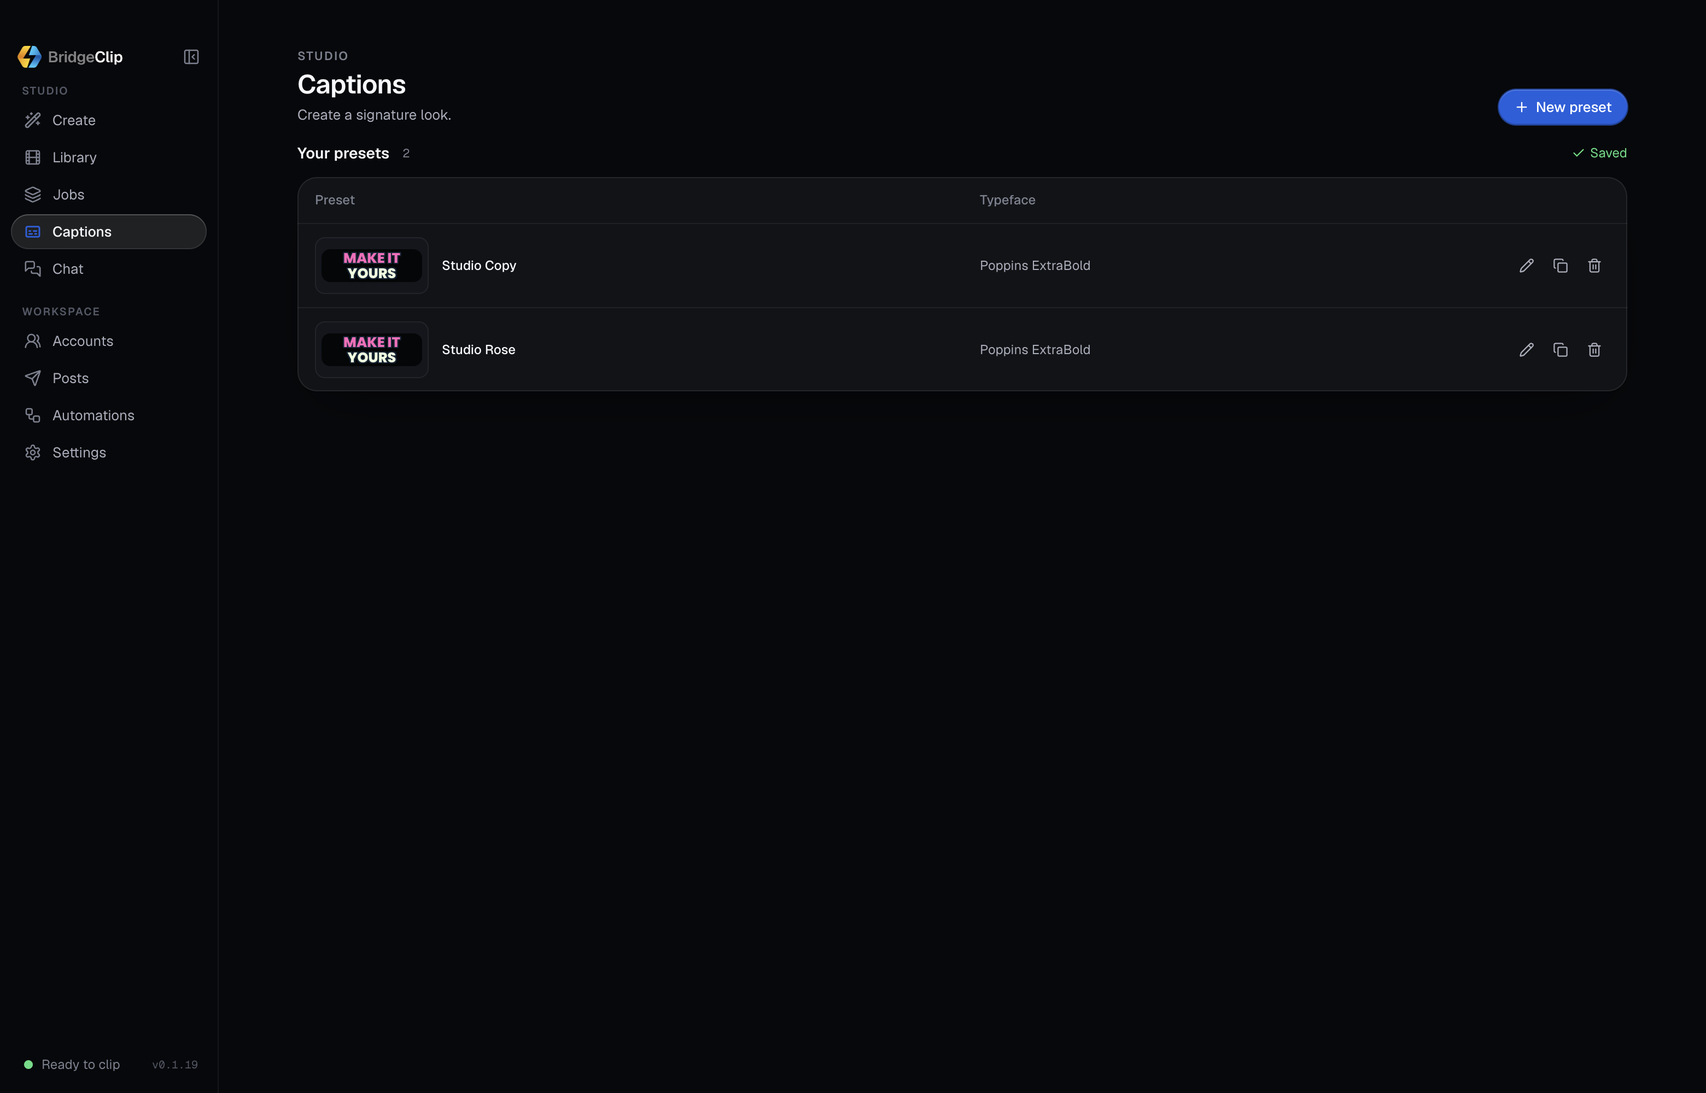
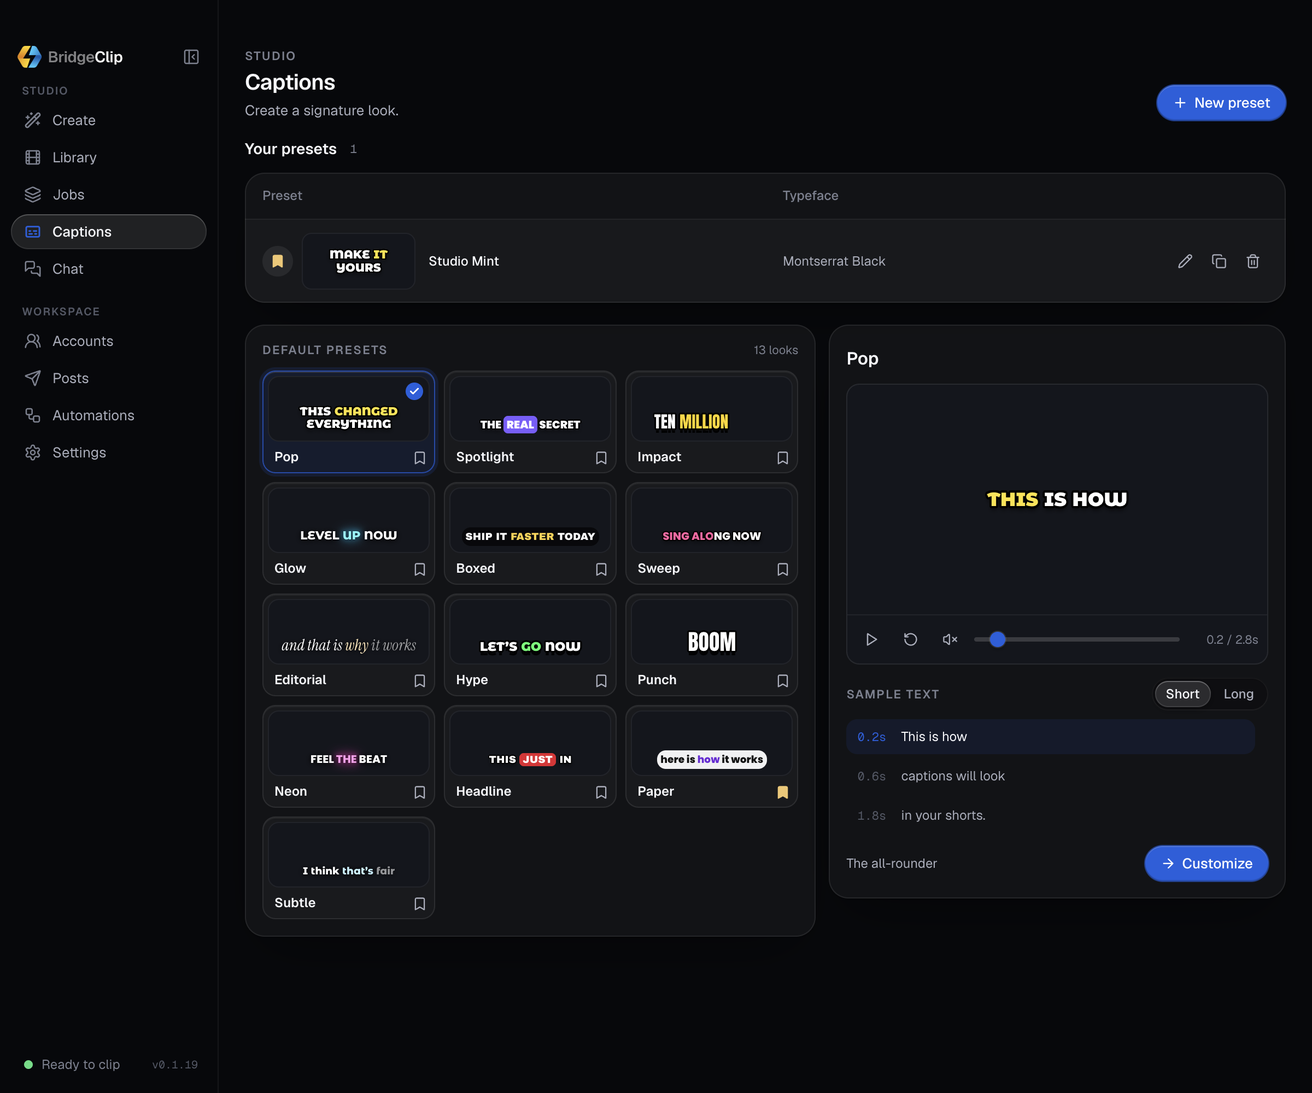
feat(captions): browse defaults and bookmark favorite styles

diff --git a/src/renderer/components/CaptionPresetPicker.tsx b/src/renderer/components/CaptionPresetPicker.tsx
@@ -1,9 +1,11 @@
 import { useEffect, useMemo, useRef, useState, type CSSProperties } from 'react'
-import { Check, Pause, Play, RotateCcw, Volume2, VolumeX } from 'lucide-react'
+import { Bookmark, Check, Pause, Play, RotateCcw, Volume2, VolumeX } from 'lucide-react'
 import { defaultCaptionStyle, type CustomCaptionPreset } from '../../shared/custom-captions'
 import type { CaptionPresetId } from '../../shared/caption-presets'
 import { useCaptionStore } from '../store/use-caption-store'
 import { useCaptionPreviewStore } from '../store/use-caption-preview-store'
+import { useCaptionFavoritesStore } from '../store/use-caption-favorites-store'
+import { CaptionFavoriteButton } from './CaptionFavoriteButton'
 import { CAPTION_DEMO_DURATION_MS, CAPTION_DEMO_WORDS, CAPTION_LONG_DEMO_DURATION_MS, CAPTION_LONG_DEMO_WORDS } from '../lib/caption-demo'
 import { captionColorProgress } from '../lib/caption-preview'
 import { captionPreviewGroups } from '../lib/caption-layout'
@@ -691,6 +693,9 @@ interface CaptionPresetPickerProps {
 
 export function CaptionPresetPicker({ value, customCaption, onChange, disabled, showPreview = false }: CaptionPresetPickerProps): React.JSX.Element {
   const { styles, error, load } = useCaptionStore()
+  const favorites = useCaptionFavoritesStore(state => state.favorites)
+  const [filter, setFilter] = useState<'all' | 'favorites'>('all')
+  const pickerRef = useRef<HTMLDivElement>(null)
   useEffect(() => { void load() }, [load])
   const current = captionPreviewPreset(value, customCaption)
   // A draft owns its snapshot: editing or deleting a library style must not
@@ -698,20 +703,41 @@ export function CaptionPresetPicker({ value, customCaption, onChange, disabled, 
   const customStyles = customCaption
     ? [customCaption, ...styles.filter(style => style.id !== customCaption.id)]
     : styles
-  const groups = [
+  const allGroups = [
     { label: 'Default', items: PRESETS },
     { label: 'Your styles', items: customStyles.map(style => captionPreviewPreset(style.baseId, style)) }
   ]
+  const favoriteCount = allGroups.reduce((count, group) => count + group.items.filter(item => favorites.includes(item.id)).length, 0)
+  const groups = allGroups.map(group => ({ ...group, items: group.items
+    .filter(item => filter === 'all' || favorites.includes(item.id))
+    .sort((a, b) => Number(favorites.includes(b.id)) - Number(favorites.includes(a.id))) }))
+  const afterBookmark = (): void => {
+    if (filter !== 'favorites') return
+    // A removed favorite leaves this filtered grid. Keep keyboard focus in the
+    // picker instead of dropping it onto the document body.
+    requestAnimationFrame(() => {
+      if (document.activeElement === document.body) pickerRef.current?.querySelector<HTMLButtonElement>('[aria-label="Caption style filter"] [aria-checked="true"]')?.focus()
+    })
+  }
   return (
-    <div>
+    <div ref={pickerRef}>
       {showPreview && <CaptionMotionPreview key={current.id} preset={current} disabled={disabled} />}
       {error && <div role="status" className="mb-2 flex items-center gap-2 text-xs text-warning">{error}<Button size="sm" onClick={() => void load()}>Retry</Button></div>}
-      {groups.map(group => <div key={group.label} className="mt-3 first:mt-0">
+      <div className="mb-3 flex items-center justify-between gap-2">
+        <p className="eyebrow">Styles</p>
+        <Segmented label="Caption style filter" size="sm" value={filter} onChange={setFilter} options={[
+          { value: 'all', label: 'All' },
+          { value: 'favorites', label: <span className="inline-flex items-center gap-1.5"><Bookmark size={12} />Favorites{favoriteCount > 0 && <span className="font-mono text-2xs text-ink-subtle">{favoriteCount}</span>}</span> }
+        ]} />
+      </div>
+      {filter === 'favorites' && favoriteCount === 0 && <p className="rounded-xl border border-white/[0.06] px-3 py-4 text-xs text-ink-muted">Bookmark a style to find it here. <button type="button" className="ml-1 text-accent hover:underline" onClick={() => setFilter('all')}>Browse all styles</button></p>}
+      {groups.filter(group => filter === 'all' || group.items.length > 0).map(group => <div key={group.label} className="mt-3 first:mt-0">
         <p className="eyebrow mb-2">{group.label}</p>
         {group.items.length === 0 ? <p className="text-xs text-ink-subtle">Make your first style in the Captions lab.</p> :
           <div className="grid grid-cols-[repeat(auto-fill,minmax(104px,1fr))] gap-2" role="radiogroup" aria-label={group.label === 'Default' ? 'Caption style' : 'Your caption styles'}>
             {group.items.map((preset, index) => <CaptionStyleTile key={preset.id} preset={preset} selected={current.id === preset.id} disabled={disabled}
               tabIndex={current.id === preset.id || index === 0 && !group.items.some(item => item.id === current.id) ? 0 : -1}
+              onBookmark={afterBookmark}
               onClick={() => { const custom = customStyles.find(style => style.id === preset.id); onChange(custom?.baseId ?? preset.id, custom) }} />)}
           </div>}
       </div>)}
@@ -719,14 +745,17 @@ export function CaptionPresetPicker({ value, customCaption, onChange, disabled, 
   )
 }
 
-export function CaptionStyleTile({ preset, selected, disabled, onClick, tabIndex }: { preset: CaptionPreset; selected: boolean; disabled?: boolean; onClick: () => void; tabIndex?: number }): React.JSX.Element {
-  return <button type="button" role="radio" aria-checked={selected} aria-label={preset.name} aria-description={preset.description}
-    title={preset.description} disabled={disabled} tabIndex={tabIndex ?? (selected ? 0 : -1)} onClick={onClick} onKeyDown={onRadioKeyDown}
-    className={cn('glass-tile glass-tile-hover group relative min-w-0 rounded-xl p-1 text-left hover:-translate-y-0.5', selected && 'glass-selected', disabled && 'opacity-50')}>
+export function CaptionStyleTile({ preset, selected, disabled, onClick, tabIndex, onBookmark }: { preset: CaptionPreset; selected: boolean; disabled?: boolean; onClick: () => void; tabIndex?: number; onBookmark?: () => void }): React.JSX.Element {
+  return <div className="relative min-w-0">
+    <button type="button" role="radio" aria-checked={selected} aria-label={preset.name} aria-description={preset.description}
+    title={`${preset.name} · ${preset.description}`} disabled={disabled} tabIndex={tabIndex ?? (selected ? 0 : -1)} onClick={onClick} onKeyDown={onRadioKeyDown}
+    className={cn('glass-tile glass-tile-hover group relative w-full min-w-0 rounded-xl p-1 text-left hover:-translate-y-0.5', selected && 'glass-selected', disabled && 'opacity-50')}>
     <span className="relative flex h-[60px] items-end justify-center overflow-hidden rounded-lg px-1.5 pb-2.5 shadow-[inset_0_0_0_1px_rgb(255_255_255/0.06)]" style={{ background: SCENE }}>
       <CaptionSample preset={preset} />
       {selected && <span className="absolute right-1.5 top-1.5 flex h-4 w-4 items-center justify-center rounded-full bg-accent text-accent-ink animate-pop-in"><Check className="h-2.5 w-2.5" strokeWidth={3.5} /></span>}
     </span>
-    <span className="block truncate px-1.5 pb-0.5 pt-1.5 text-xs font-semibold text-ink">{preset.name}</span>
-  </button>
+    <span className="block truncate pb-0.5 pl-1.5 pr-7 pt-1.5 text-xs font-semibold text-ink">{preset.name}</span>
+    </button>
+    <CaptionFavoriteButton id={preset.id} name={preset.name} disabled={disabled} onToggle={onBookmark} className="absolute bottom-0.5 right-0.5 h-6 w-6" />
+  </div>
 }

diff --git a/src/renderer/pages/CaptionsPage.tsx b/src/renderer/pages/CaptionsPage.tsx
@@ -3,6 +3,7 @@ import { ArrowLeft, ArrowRight, Check, Copy, Pencil, Plus, Save, Trash2 } from '
 import { CAPTION_FONTS, defaultCaptionStyle, parseCustomCaption, type CaptionStyleSettings, type CustomCaptionPreset } from '../../shared/custom-captions'
 import { DEFAULT_CAPTION_PRESET, isCaptionPresetId, type CaptionPresetId } from '../../shared/caption-presets'
 import { PRESETS, CaptionMotionPreview, CaptionSample, CaptionStyleTile, captionPreviewPreset } from '../components/CaptionPresetPicker'
+import { CaptionFavoriteButton } from '../components/CaptionFavoriteButton'
 import type { Page as PageId } from '../components/Sidebar'
 import { Button } from '../components/ui/Button'
 import { Callout } from '../components/ui/Callout'
@@ -14,6 +15,7 @@ import { Panel } from '../components/ui/Panel'
 import { Select } from '../components/ui/Select'
 import { Switch } from '../components/ui/Switch'
 import { useCaptionStore } from '../store/use-caption-store'
+import { useCaptionFavoritesStore } from '../store/use-caption-favorites-store'
 import { useDraftStore } from '../store/use-draft-store'
 import { errorMessage } from '../lib/utils'
 import { getApi } from '../lib/ipc'
@@ -22,6 +24,8 @@ import './captions.css'
 
 export function CaptionsPage({ onNavigate }: { onNavigate: (page: PageId) => void }): React.JSX.Element {
   const { styles, editing, selectedBaseId: baseId, view, fromWizard, loaded, loading, error: loadError, load, save, remove } = useCaptionStore()
+  const favorites = useCaptionFavoritesStore(state => state.favorites)
+  const orderedStyles = [...styles].sort((a, b) => Number(favorites.includes(b.id)) - Number(favorites.includes(a.id)))
   const [busy, setBusy] = useState(false)
   const [error, setError] = useState<string | null>(null)
   const [saved, setSaved] = useState(false)
@@ -74,7 +78,7 @@ export function CaptionsPage({ onNavigate }: { onNavigate: (page: PageId) => voi
     if (id === baseId) return
     switchStyle(() => {
       setEditing(null)
-      useCaptionStore.setState({ selectedBaseId: id, view: 'base' })
+      useCaptionStore.setState({ selectedBaseId: id, view: stage === 'home' ? 'home' : 'base' })
     })
   }
   const customize = (): void => {
@@ -86,6 +90,12 @@ export function CaptionsPage({ onNavigate }: { onNavigate: (page: PageId) => voi
   }
   const apply = (style: CustomCaptionPreset): void => {
     useDraftStore.getState().update({ captionPreset: style.baseId, customCaption: structuredClone(style), includeCaptions: true })
+    useDraftStore.getState().setStep('captions')
+    useCaptionStore.setState({ fromWizard: false, view: 'home', editing: null })
+    onNavigate('clip')
+  }
+  const applyDefault = (): void => {
+    useDraftStore.getState().update({ captionPreset: baseId, customCaption: undefined, includeCaptions: true })
     useDraftStore.getState().setStep('captions')
     useCaptionStore.setState({ fromWizard: false, view: 'home', editing: null })
     onNavigate('clip')
@@ -168,11 +178,11 @@ export function CaptionsPage({ onNavigate }: { onNavigate: (page: PageId) => voi
       {stage === 'home' && <Panel padded={false} className="caption-preset-library mt-3 overflow-hidden">
         <table aria-label="Your caption presets" className="caption-preset-table">
           <thead><tr><th scope="col">Preset</th><th scope="col" className="caption-preset-font">Typeface</th><th scope="col"><span className="sr-only">Actions</span></th></tr></thead>
-          <tbody>{styles.map(style => <tr key={style.id} aria-label={style.name}>
-            <td><button type="button" className="caption-preset-name" onClick={() => beginEdit(style)} disabled={busy} aria-label={`Open ${style.name}`}>
+          <tbody>{orderedStyles.map(style => <tr key={style.id} aria-label={style.name}>
+            <td><div className="flex min-w-0 items-center gap-2"><CaptionFavoriteButton id={style.id} name={style.name} disabled={busy} /><button type="button" className="caption-preset-name" onClick={() => beginEdit(style)} disabled={busy} aria-label={`Open ${style.name}`}>
               <span className="caption-preset-sample" aria-hidden="true"><CaptionSample preset={captionPreviewPreset(style.baseId, style)} /></span>
               <span className="min-w-0 truncate font-medium text-ink">{style.name}</span>
-            </button></td>
+            </button></div></td>
             <td className="caption-preset-font text-ink-muted">{style.style.font_name}</td>
             <td><div className="caption-preset-actions">
               {fromWizard && <Button size="sm" variant="primary" aria-label={`Use ${style.name}`} disabled={busy} onClick={() => apply(style)}>Use preset</Button>}
@@ -183,15 +193,15 @@ export function CaptionsPage({ onNavigate }: { onNavigate: (page: PageId) => voi
           </tr>)}</tbody>
         </table>
       </Panel>}
-      {stage === 'base' && <div className="caption-base-layout mt-3 animate-fade-in">
+      {(stage === 'base' || stage === 'home') && <div className={`caption-base-layout ${stage === 'home' ? 'mt-5' : 'mt-3'} animate-fade-in`}>
         <Panel>
           <div className="mb-3 flex items-center justify-between"><h3 className="eyebrow">Default presets</h3><span className="text-2xs text-ink-subtle">{PRESETS.length} looks</span></div>
-          <div className="caption-base-grid" role="radiogroup" aria-label="Default styles">{PRESETS.map(preset => <CaptionStyleTile key={preset.id} preset={preset} selected={baseId === preset.id} disabled={busy} tabIndex={baseId === preset.id ? 0 : -1} onClick={() => chooseBase(preset.id as CaptionPresetId)} />)}</div>
+          <div className="caption-base-grid" role="radiogroup" aria-label={stage === 'home' ? 'Default caption presets' : 'Default styles'}>{PRESETS.map(preset => <CaptionStyleTile key={preset.id} preset={preset} selected={baseId === preset.id} disabled={busy} tabIndex={baseId === preset.id ? 0 : -1} onClick={() => chooseBase(preset.id as CaptionPresetId)} />)}</div>
         </Panel>
         <Panel className="caption-lab-preview caption-base-preview">
-          <div className="mb-3 flex items-center justify-between gap-3"><div className="min-w-0"><p className="eyebrow">Your starting point</p><h3 className="mt-1 truncate text-lg font-semibold">{preview.name}</h3></div></div>
+          <div className="mb-3 flex items-center justify-between gap-3"><div className="min-w-0">{stage === 'base' && <p className="eyebrow">Your starting point</p>}<h3 className="mt-1 truncate text-lg font-semibold">{preview.name}</h3></div></div>
           <CaptionMotionPreview key={baseId} preset={preview} labControls />
-          <div className="mt-3 flex items-center justify-between gap-3"><p className="text-xs text-ink-muted">{preview.description}</p><Button variant="primary" icon={<ArrowRight size={14} />} disabled={busy} onClick={customize}>Customize</Button></div>
+          <div className="mt-3 flex flex-wrap items-center justify-between gap-3"><p className="text-xs text-ink-muted">{preview.description}</p><div className="flex items-center gap-2"><Button variant={fromWizard ? 'secondary' : 'primary'} icon={<ArrowRight size={14} />} disabled={busy} onClick={customize}>Customize</Button>{fromWizard && <Button variant="primary" disabled={busy} onClick={() => switchStyle(applyDefault)}>Use preset</Button>}</div></div>
         </Panel>
       </div>}
       {stage === 'edit' && editing && <div className="caption-editor-layout mt-3 animate-fade-in">

diff --git a/src/renderer/store/use-caption-favorites-store.ts b/src/renderer/store/use-caption-favorites-store.ts
@@ -1,0 +1,30 @@
+import { create } from 'zustand'
+import { isCaptionPresetId } from '../../shared/caption-presets'
+
+const STORAGE_KEY = 'bridgeclip.captions.favorites'
+const validId = (id: unknown): id is string => isCaptionPresetId(id) || typeof id === 'string' && /^custom-[a-zA-Z0-9-]{1,56}$/.test(id)
+
+function readFavorites(): string[] {
+  try {
+    const value: unknown = JSON.parse(localStorage.getItem(STORAGE_KEY) ?? '[]')
+    return Array.isArray(value) ? [...new Set(value.filter(validId))].slice(0, 256) : []
+  } catch { return [] }
+}
+
+/** A browsing preference, independent of saved styles and job snapshots. */
+export const useCaptionFavoritesStore = create<{
+  favorites: string[]
+  toggle: (id: string) => void
+  remove: (id: string) => void
+}>(set => {
+  const update = (change: (favorites: string[]) => string[]): void => set(state => {
+    const favorites = change(state.favorites)
+    try { localStorage.setItem(STORAGE_KEY, JSON.stringify(favorites)) } catch { /* Keep the session preference. */ }
+    return { favorites }
+  })
+  return {
+    favorites: readFavorites(),
+    toggle: id => { if (validId(id)) update(ids => ids.includes(id) ? ids.filter(value => value !== id) : [...ids, id].slice(0, 256)) },
+    remove: id => update(ids => ids.filter(value => value !== id))
+  }
+})

diff --git a/src/renderer/components/CaptionFavoriteButton.tsx b/src/renderer/components/CaptionFavoriteButton.tsx
@@ -1,0 +1,16 @@
+import { Bookmark } from 'lucide-react'
+import { useCaptionFavoritesStore } from '../store/use-caption-favorites-store'
+import { Button } from './ui/Button'
+import { cn } from '../lib/utils'
+
+export function CaptionFavoriteButton({ id, name, disabled, className, onToggle }: {
+  id: string; name: string; disabled?: boolean; className?: string; onToggle?: () => void
+}): React.JSX.Element {
+  const favorite = useCaptionFavoritesStore(state => state.favorites.includes(id))
+  return <Button size="sm" variant="ghost" iconOnly disabled={disabled}
+    className={cn(favorite && 'text-[#f2c66d] hover:text-[#f2c66d]', className)}
+    aria-label={`${favorite ? 'Remove bookmark from' : 'Bookmark'} ${name}`} aria-pressed={favorite}
+    title={favorite ? 'Remove from favorites' : 'Add to favorites'}
+    icon={<Bookmark size={14} fill={favorite ? 'currentColor' : 'none'} />}
+    onClick={() => { useCaptionFavoritesStore.getState().toggle(id); onToggle?.() }} />
+}

diff --git a/src/renderer/store/use-caption-store.ts b/src/renderer/store/use-caption-store.ts
@@ -4,6 +4,7 @@ import { DEFAULT_CAPTION_PRESET, isCaptionPresetId, type CaptionPresetId } from 
 import { getApi } from '../lib/ipc'
 import { errorMessage } from '../lib/utils'
 import { readCaptionLabDraft, writeCaptionLabDraft } from '../lib/caption-lab-draft'
+import { useCaptionFavoritesStore } from './use-caption-favorites-store'
 
 const recoveredDraft = readCaptionLabDraft()
 
@@ -34,7 +35,10 @@ export const useCaptionStore = create<CaptionState>((set, get) => ({
     finally { set({ loading: false }) }
   },
   save: async (style) => { set({ styles: await getApi().captions.save(style), loaded: true, error: null }) },
-  remove: async (id) => { set({ styles: await getApi().captions.delete(id), error: null }) }
+  remove: async (id) => {
+    set({ styles: await getApi().captions.delete(id), error: null })
+    useCaptionFavoritesStore.getState().remove(id)
+  }
 }))
 
 useCaptionStore.subscribe(({ editing, styles }) => {

diff --git a/src/renderer/components/ui/Segmented.tsx b/src/renderer/components/ui/Segmented.tsx
@@ -20,7 +20,7 @@ interface SegmentedProps<T extends string> {
 /** Arrow keys, Home and End move between the radios of a group (roving tab stop). */
 export function onRadioKeyDown(event: ReactKeyboardEvent<HTMLButtonElement>): void {
   const radios = Array.from(
-    event.currentTarget.parentElement?.querySelectorAll<HTMLButtonElement>('[role="radio"]:not(:disabled)') ?? []
+    (event.currentTarget.closest('[role="radiogroup"]') ?? event.currentTarget.parentElement)?.querySelectorAll<HTMLButtonElement>('[role="radio"]:not(:disabled)') ?? []
   )
   const current = radios.indexOf(event.currentTarget)
   if (current < 0) return

diff --git a/docs/usage.md b/docs/usage.md
@@ -60,6 +60,10 @@ Open **Captions** in the sidebar or **Open captions lab** in Create’s Captions
 
 Give it a name and choose **Save preset** to save without leaving the editor. **Back to presets** opens your table with edit, duplicate and delete actions; future visits start there. **New preset** starts the base-selection wizard again. Leaving unsaved caption edits offers **Save & leave**, **Discard**, or **Keep editing**. Reloading or closing the app also asks whether to save. When opened from Create, **Save & use** returns to the same draft with the preset selected, or you can use one directly from the table. Default styles and **Your styles** are separate in caption pickers. Each job and editor clip keeps its own style snapshot, so later library edits and deletions do not change an existing clip. A custom style can also be selected in the editor before baking.
 
+Default presets also appear below your saved table. Select one to preview it, choose **Customize** to start a new preset, or **Use preset** to return it to Create. The initial base-selection wizard remains available when you have no custom presets.
+
+Use the bookmark beside a custom preset or on any default tile to add it to **Favorites**. Bookmarks stay saved on this device across app launches and appear first in each group. In Create and the clip editor, switch from **All** to **Favorites** to show only your bookmarks; default and custom styles remain separate. Bookmarking or filtering never changes the selected caption style. Renaming a preset keeps its bookmark, and deleting it removes the bookmark.
+
 **Clean switch** changes the active word’s color instantly. **Color fade** and **Pop & fade** deliberately blend colors in both the preview and exported captions; short word events switch instantly to match the export.
 
 Saved presets are independent copies of their starting default. Changing or retiring a default does not change your preset’s appearance or prevent you from editing, duplicating or exporting it.

diff --git a/CHANGELOG.md b/CHANGELOG.md
@@ -8,6 +8,7 @@ The format follows [Keep a Changelog](https://keepachangelog.com/en/1.1.0/). Mai
 
 ### Added
 
+- Caption bookmarks keep favorite defaults and custom presets easy to find across app launches. Create and the clip editor offer an **All / Favorites** filter, with bookmarks first in each style group.
 - **Crash reports** in Settings → About lets you review and copy a local issue report after an app or interface error. Reports omit keys, media paths and raw error messages; Help also offers **Copy Latest Crash Report**.
 - Caption presets expose separate **Horizontal padding** and **Vertical padding** controls for backgrounds, applied to previews and exports. New presets start with 24 horizontal padding; existing presets keep their saved padding.
 
@@ -34,6 +35,7 @@ The format follows [Keep a Changelog](https://keepachangelog.com/en/1.1.0/). Mai
 
 ### Changed
 
+- Captions shows default styles below your saved presets, with previews and actions to customize or use them in Create.
 - Posts explains its activity feed below the heading and makes clear that dismissing updates keeps published posts and Library status intact.
 - Captions keeps the editor open after saving, simplifies the preview header, and offers **Save & leave**, **Discard**, or **Keep editing** before leaving unsaved changes.
 - Posts replaces **Show all** with numbered pages for Recent posts and remembers the page-size setting shared with Jobs. Scheduled posts and items needing attention stay visible.

diff --git a/docs/screenshots/studio-polish/README.md b/docs/screenshots/studio-polish/README.md
@@ -33,9 +33,13 @@ Choose a default as a starting point, then adjust your own preset with a live pr
 
 ![Editing a custom caption preset with two lines](captions-lab.png)
 
-Once presets are saved, the page opens with a table and a New preset action.
+Once presets are saved, the page opens with a table and a New preset action. Default styles stay visible below the table, with a preview and controls to customize or use one. Bookmark default and custom presets without changing the current selection.
 
-![Saved custom caption presets](captions-table.png)
+![Custom presets and default styles with bookmarks](captions-table.png)
+
+In Create and the clip editor, **Favorites** filters the picker to your bookmarks while keeping default and custom styles separate. Bookmarks are retained across app launches.
+
+![Favorite caption styles in Create](captions-favorites.png)
 
 Saving keeps the editor open. Leaving unsaved changes offers save, discard and cancel; reload and app close also ask whether to save.
 
